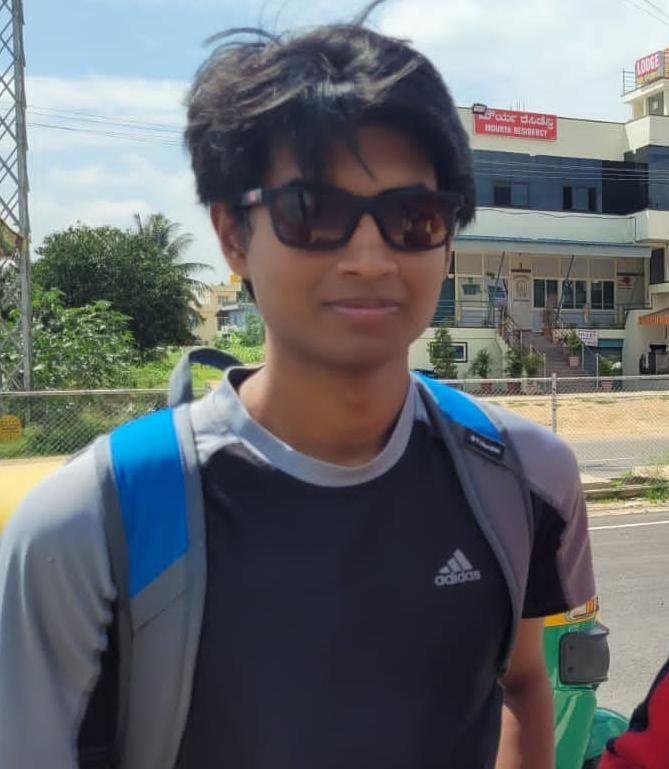
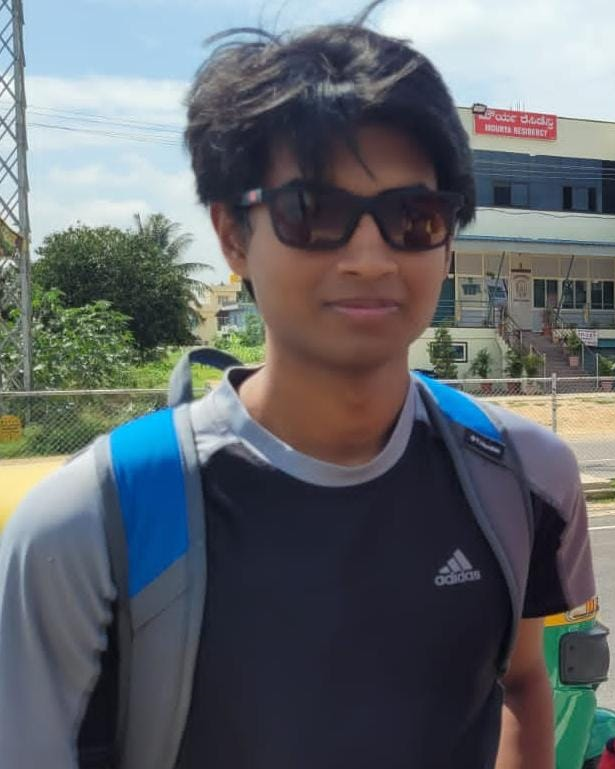
Image Update

diff --git a/team_info.html b/team_info.html
@@ -31,10 +31,10 @@
         <h1>Our Team</h1><br>
         <div class="grid-container">
             <div class="card">
-                <img src="images/Aakash.png" >
+                <img src="images/Aakash.jpeg" >
                 <div class="container">
                   <h4><b>Aakash Rajaraman</b></h4> 
-                  <p>Dumbshit</p> 
+                  <h6>Chairperson</h6> 
                   <a href="https://www.instagram.com/aakashrajaraman2"><i class="fa fa-instagram"></i></a>
                   <a href="https://www.linkedin.com/in/aakash-rajaraman-190a77201"><i class="fa fa-linkedin"></i></a>
                 </div>
@@ -42,28 +42,84 @@
             <div class="card">
                 <img src="images/Aakash.png">
                 <div class="container">
-                  <h4><b>Aakash Rajaraman</b></h4> 
-                  <p>Dumbshit</p> 
+                  <h4><b>Sohan Simha</b></h4> 
+                  <h6>Vice Chairperson</h6> 
                   <a href="https://www.instagram.com/geeksforgeeks_ju"><i class="fa fa-instagram"></i></a>
                   <a href="https://www.linkedin.com/company/geeksforgeeks-ju"><i class="fa fa-linkedin"></i></a>
                 </div>
             </div>
             <div class="card">
-                <img src="images/Aakash.png">
+                <img src="images/Diksha.jpeg">
                 <div class="container">
-                  <h4><b>Aakash Rajaraman</b></h4> 
-                  <p>Dumbshit</p> 
-                  <a href="https://www.instagram.com/geeksforgeeks_ju"><i class="fa fa-instagram"></i></a>
-                  <a href="https://www.linkedin.com/company/geeksforgeeks-ju"><i class="fa fa-linkedin"></i></a>
+                  <h4><b>Diksha Chakravarty</b></h4> 
+                  <h6>Public Relations & Outreach Head</h6> 
+                  <a href="https://www.instagram.com/_ashkid_/"><i class="fa fa-instagram"></i></a>
+                  <a href="https://www.linkedin.com/in/diksha-chakravarty-826160206/"><i class="fa fa-linkedin"></i></a>
+                </div>
+            </div>
+            <div class="card">
+                <img src="images/Yashas.jpeg">
+                <div class="container">
+                  <h4><b>Yashas S</b></h4> 
+                  <h6>Technical Head</h6> 
+                  <a href="https://www.instagram.com/sassy_yashas/"><i class="fa fa-instagram"></i></a>
+                  <a href="https://github.com/Yashas2001"><i class="fa fa-github"></i></a>
+                  <a href="https://www.linkedin.com/in/yashas-s-b83850205/"><i class="fa fa-linkedin"></i></a>
                 </div>
             </div>
             <div class="card">
                 <img src="images/Aakash.png">
                 <div class="container">
-                  <h4><b>Aakash Rajaraman</b></h4> 
-                  <p>Dumbshit</p> 
+                  <h4><b>Raghavendra Dabral</b></h4> 
+                  <h6>Marketing Head</h6> 
                   <a href="https://www.instagram.com/geeksforgeeks_ju"><i class="fa fa-instagram"></i></a>
-                  <a href="https://www.linkedin.com/company/geeksforgeeks-ju"><i class="fa fa-linkedin"></i></a>
+                  <a href="https://www.linkedin.com/in/raghavendra-dabral/"><i class="fa fa-linkedin"></i></a>
+                </div>
+            </div>
+            <div class="card">
+                <img src="images/Vidit.JPG">
+                <div class="container">
+                  <h4><b>Vidit Kharecha</b></h4> 
+                  <h6>Design Head</h6> 
+                  <a href="https://instagram.com/vidit.vidit"><i class="fa fa-instagram"></i></a>
+                  <a href="https://www.linkedin.com/in/vidit-kharecha-2770b2225"><i class="fa fa-linkedin"></i></a>
+                  <a href="https://youtube.com/channel/UCh0oi-J7ip0RmTEkR_nsa8A"><i class="fa fa-youtube"></i></a>
+                </div>
+            </div>
+            <div class="card">
+                <img src="images/Aakash.png">
+                <div class="container">
+                  <h4><b>Gokul Valsalan</b></h4> 
+                  <h6>Social Media Head</h6> 
+                  <a href="https://www.instagram.com/gx.kul/"><i class="fa fa-instagram"></i></a>
+                  <a href="https://www.linkedin.com/in/gokul-valsalan-08a166235/"><i class="fa fa-linkedin"></i></a>
+                </div>
+            </div>
+            <div class="card">
+                <img src="images/Bharath.jpeg">
+                <div class="container">
+                  <h4><b>Bharath Raj</b></h4> 
+                  <h6>Events Head</h6> 
+                  <a href="https://www.github.com/bharathraj-v"><i class="fa fa-github"></i></a>
+                  <a href="https://www.linkedin.com/in/bharathraj-v/"><i class="fa fa-linkedin"></i></a>
+                </div>
+            </div>
+            <div class="card">
+                <img src="images/Trush.jpg">
+                <div class="container">
+                  <h4><b>Trush Shashank</b></h4> 
+                  <h6>Design Co-Head</h6> 
+                  <a href="https://www.instagram.com/trushshashank/"><i class="fa fa-instagram"></i></a>
+                  <a href="https://www.linkedin.com/in/trush-shashank-787592209/"><i class="fa fa-linkedin"></i></a>
+                </div>
+            </div>
+            <div class="card">
+                <img src="images/Nishta.jpg">
+                <div class="container">
+                  <h4><b>Nishtha Jain</b></h4> 
+                  <h6>Events Co-Head</h6> 
+                  <a href="https://www.instagram.com/nishthajain_12?r=nametag"><i class="fa fa-instagram"></i></a>
+                  <a href="https://www.linkedin.com/in/nishtha-jain-146824205"><i class="fa fa-linkedin"></i></a>
                 </div>
             </div>
 
@@ -75,7 +131,7 @@
 <section class="footer">
     <h4>Follow Us On</h4>
     <div class="icons">
-        <a href="https://www.instagram.com/geeksforgeeks_ju"><i class="fa fa-instagram"></i></a>
+        <a href="https://www.instagram.com/geeksforgeeksju_fet/"><i class="fa fa-instagram"></i></a>
         <a href="https://www.linkedin.com/company/geeksforgeeks-ju"><i class="fa fa-linkedin"></i></a>
     </div>
 

diff --git a/styles/styles.css b/styles/styles.css
@@ -203,6 +203,13 @@ h2{
     font-weight: 600;
     margin-left: 30px;
 }
+.team-members h6{
+    font-size: 16px;
+    font-weight: 300;
+    
+    padding-top: 10px;
+    
+}
 .grid-container{
     display: grid;
     grid-template-columns: auto auto auto;
@@ -226,7 +233,7 @@ h2{
   
 img {
     width: 100%;
-    border-radius: 10px 10px 0 0;
+    border-radius: 10px 10px;
   }
   
 .container {
@@ -235,7 +242,7 @@ img {
 .container .fa{
     margin: 2px 10px;
     cursor: pointer;
-    padding: 2px 0;
+    padding-top: 10px;
     size: 30px;
 }
 .container .fa:hover{
@@ -259,14 +266,14 @@ img {
         grid-template-columns: auto auto auto;
         grid-gap: 10px; 
         column-gap: 10px;
-        margin: 30px;
+        margin: 5px;
         align-items: right;
         
     }
     .card {
         box-shadow: 0 8px 16px 0 rgb(0,0,0);
         transition: 0.3s;
-        width: 80%;
+        width: 90%;
         border-radius: 2px;
         margin: 10px;
       }
@@ -300,6 +307,7 @@ img {
     justify-content: space-between;
     align-items: center;
     margin: 30px 0;
+    padding-left: 20px;
 }
 .team-events h1{
     font-size: 30px;

diff --git a/events.html b/events.html
@@ -33,6 +33,7 @@
     <section class ="team-events">
         <div>
             <h1>Events</h1>
+            <p> There are no upcoming events from the GeeksforGeeks Student Chapter, please check back soon for information on past and upcoming events.</p>
         </div>
     </section>
 
@@ -40,7 +41,7 @@
 <section class="footer">
     <h4>Follow Us On</h4>
     <div class="icons">
-        <a href="https://www.instagram.com/geeksforgeeks_ju"><i class="fa fa-instagram"></i></a>
+        <a href="https://www.instagram.com/geeksforgeeksju_fet/"><i class="fa fa-instagram"></i></a>
         <a href="https://www.linkedin.com/company/geeksforgeeks-ju"><i class="fa fa-linkedin"></i></a>
     </div>
 

diff --git a/index.html b/index.html
@@ -55,7 +55,7 @@
 <section class="footer">
     <h4>Follow Us On</h4>
     <div class="icons">
-        <a href="https://www.instagram.com/geeksforgeeks_ju"><i class="fa fa-instagram"></i></a>
+        <a href="https://www.instagram.com/geeksforgeeksju_fet/"><i class="fa fa-instagram"></i></a>
         <a href="https://www.linkedin.com/company/geeksforgeeks-ju"><i class="fa fa-linkedin"></i></a>
     </div>
 
